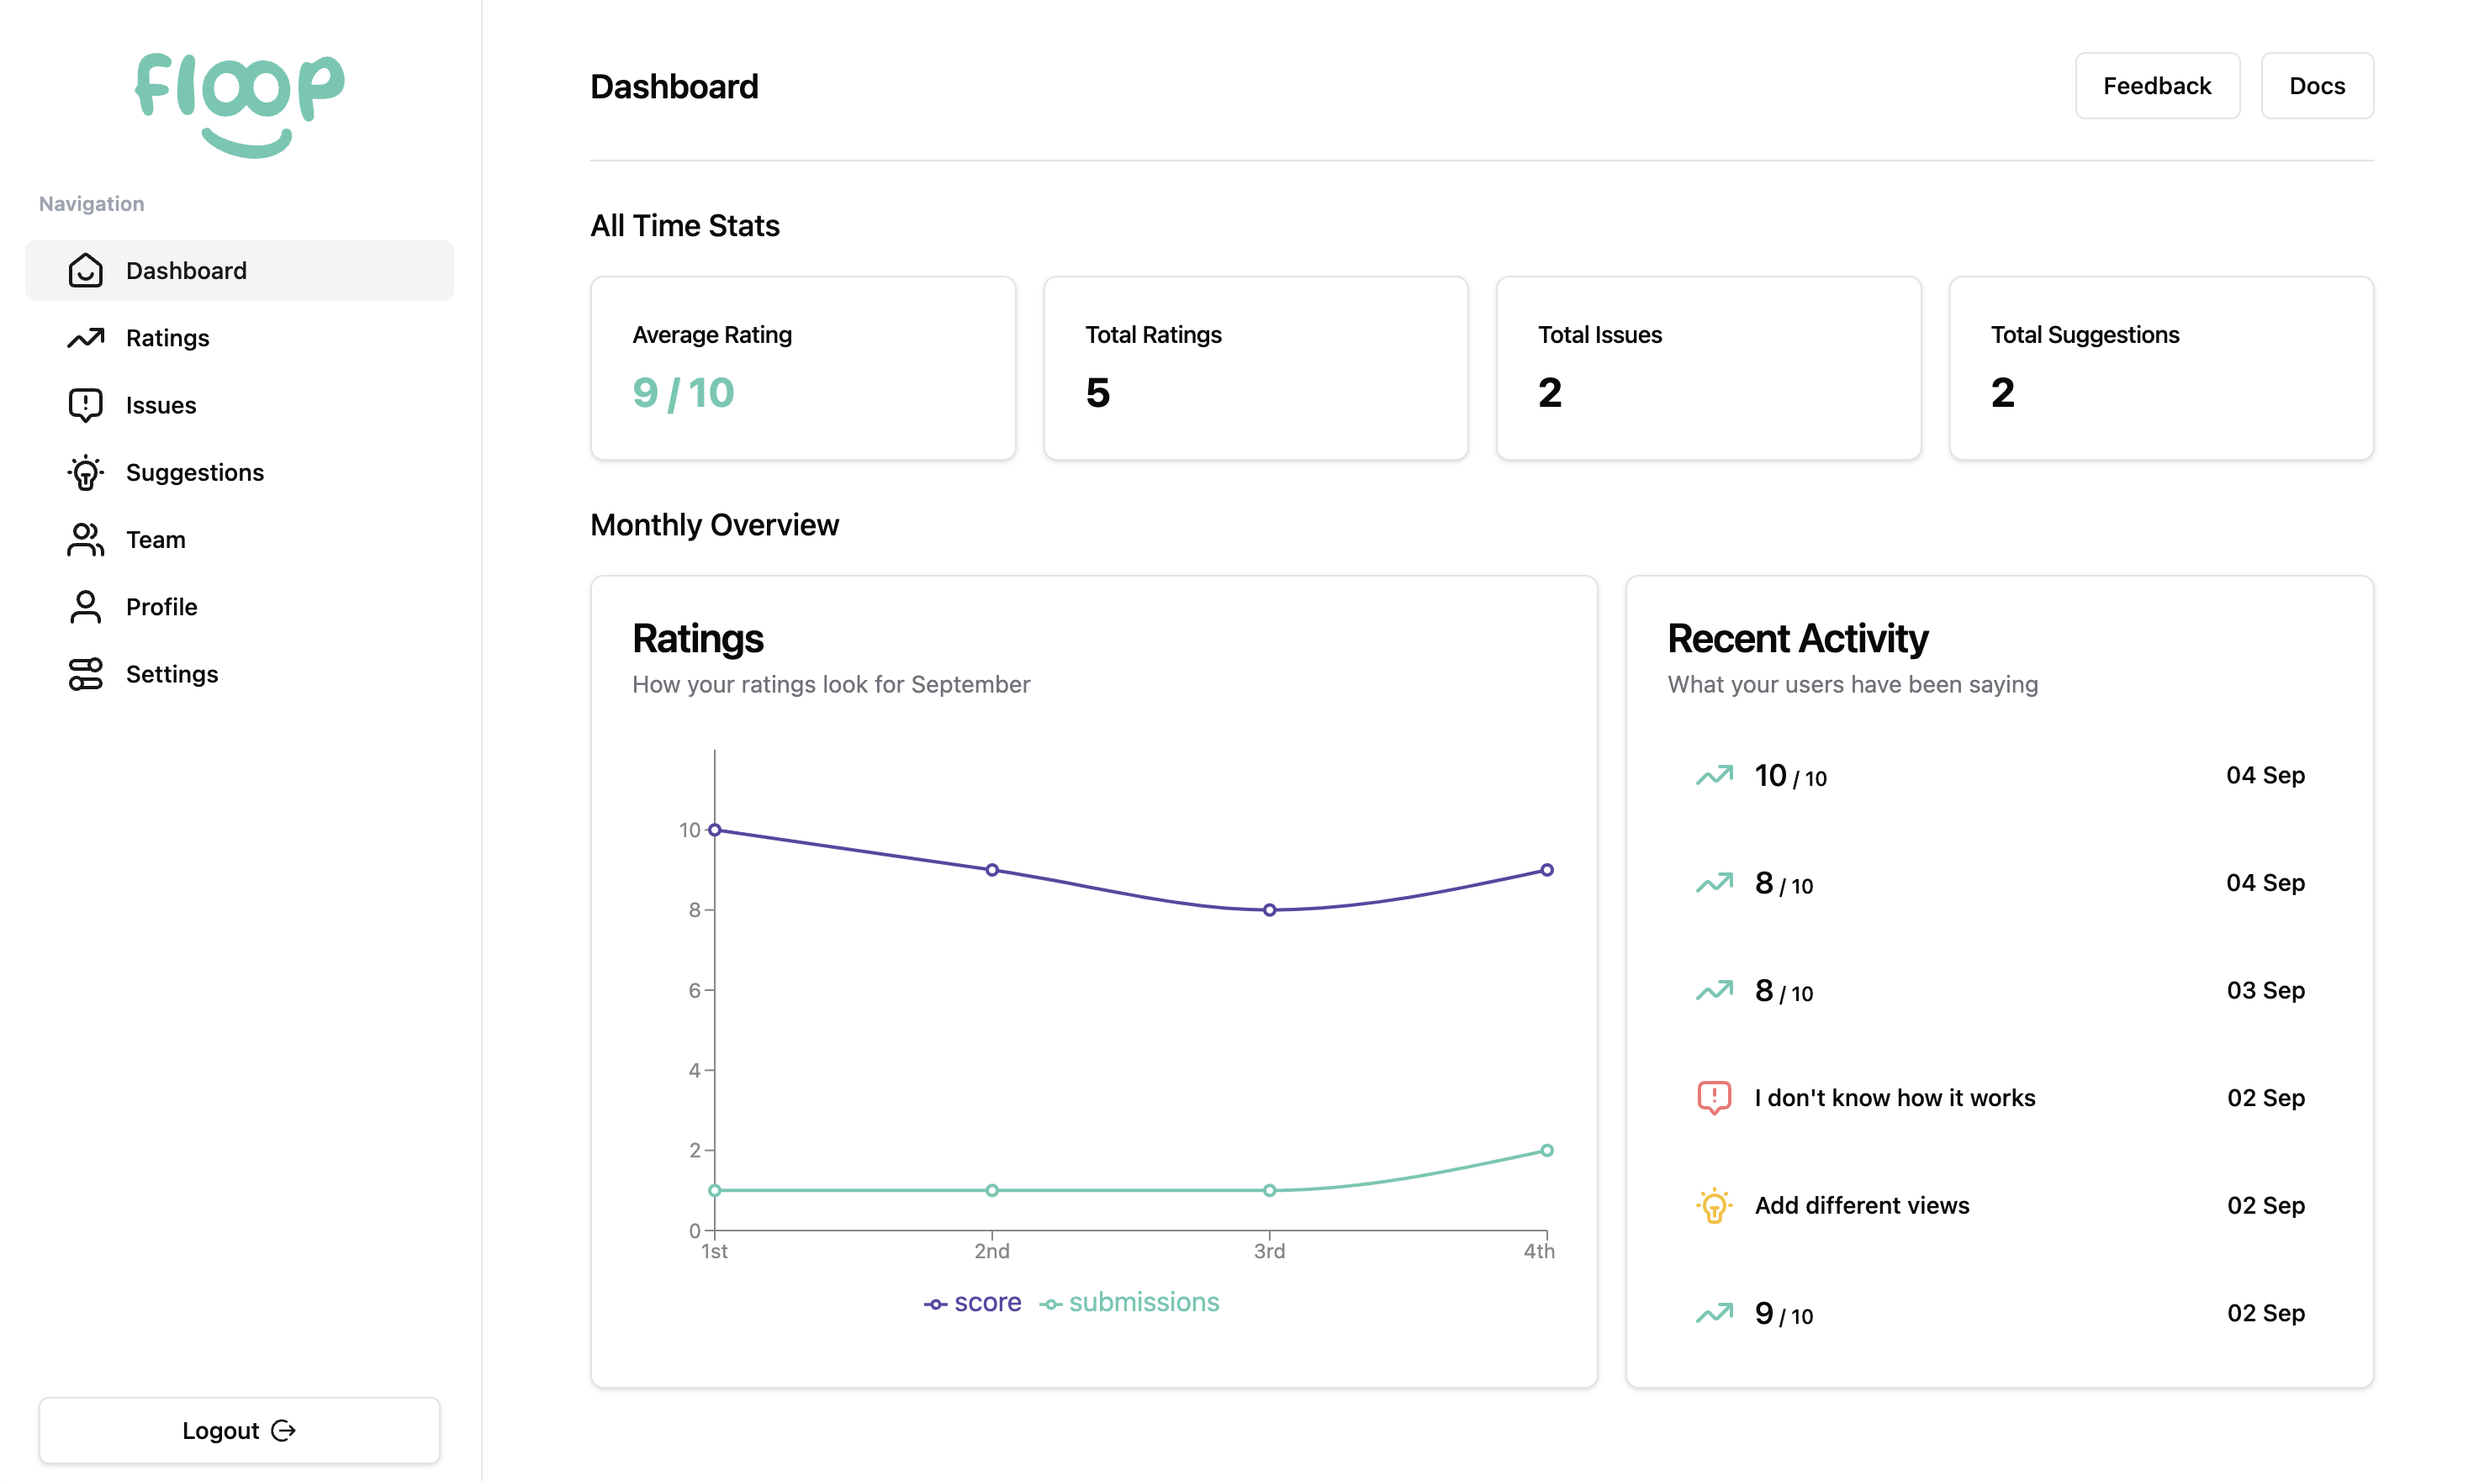
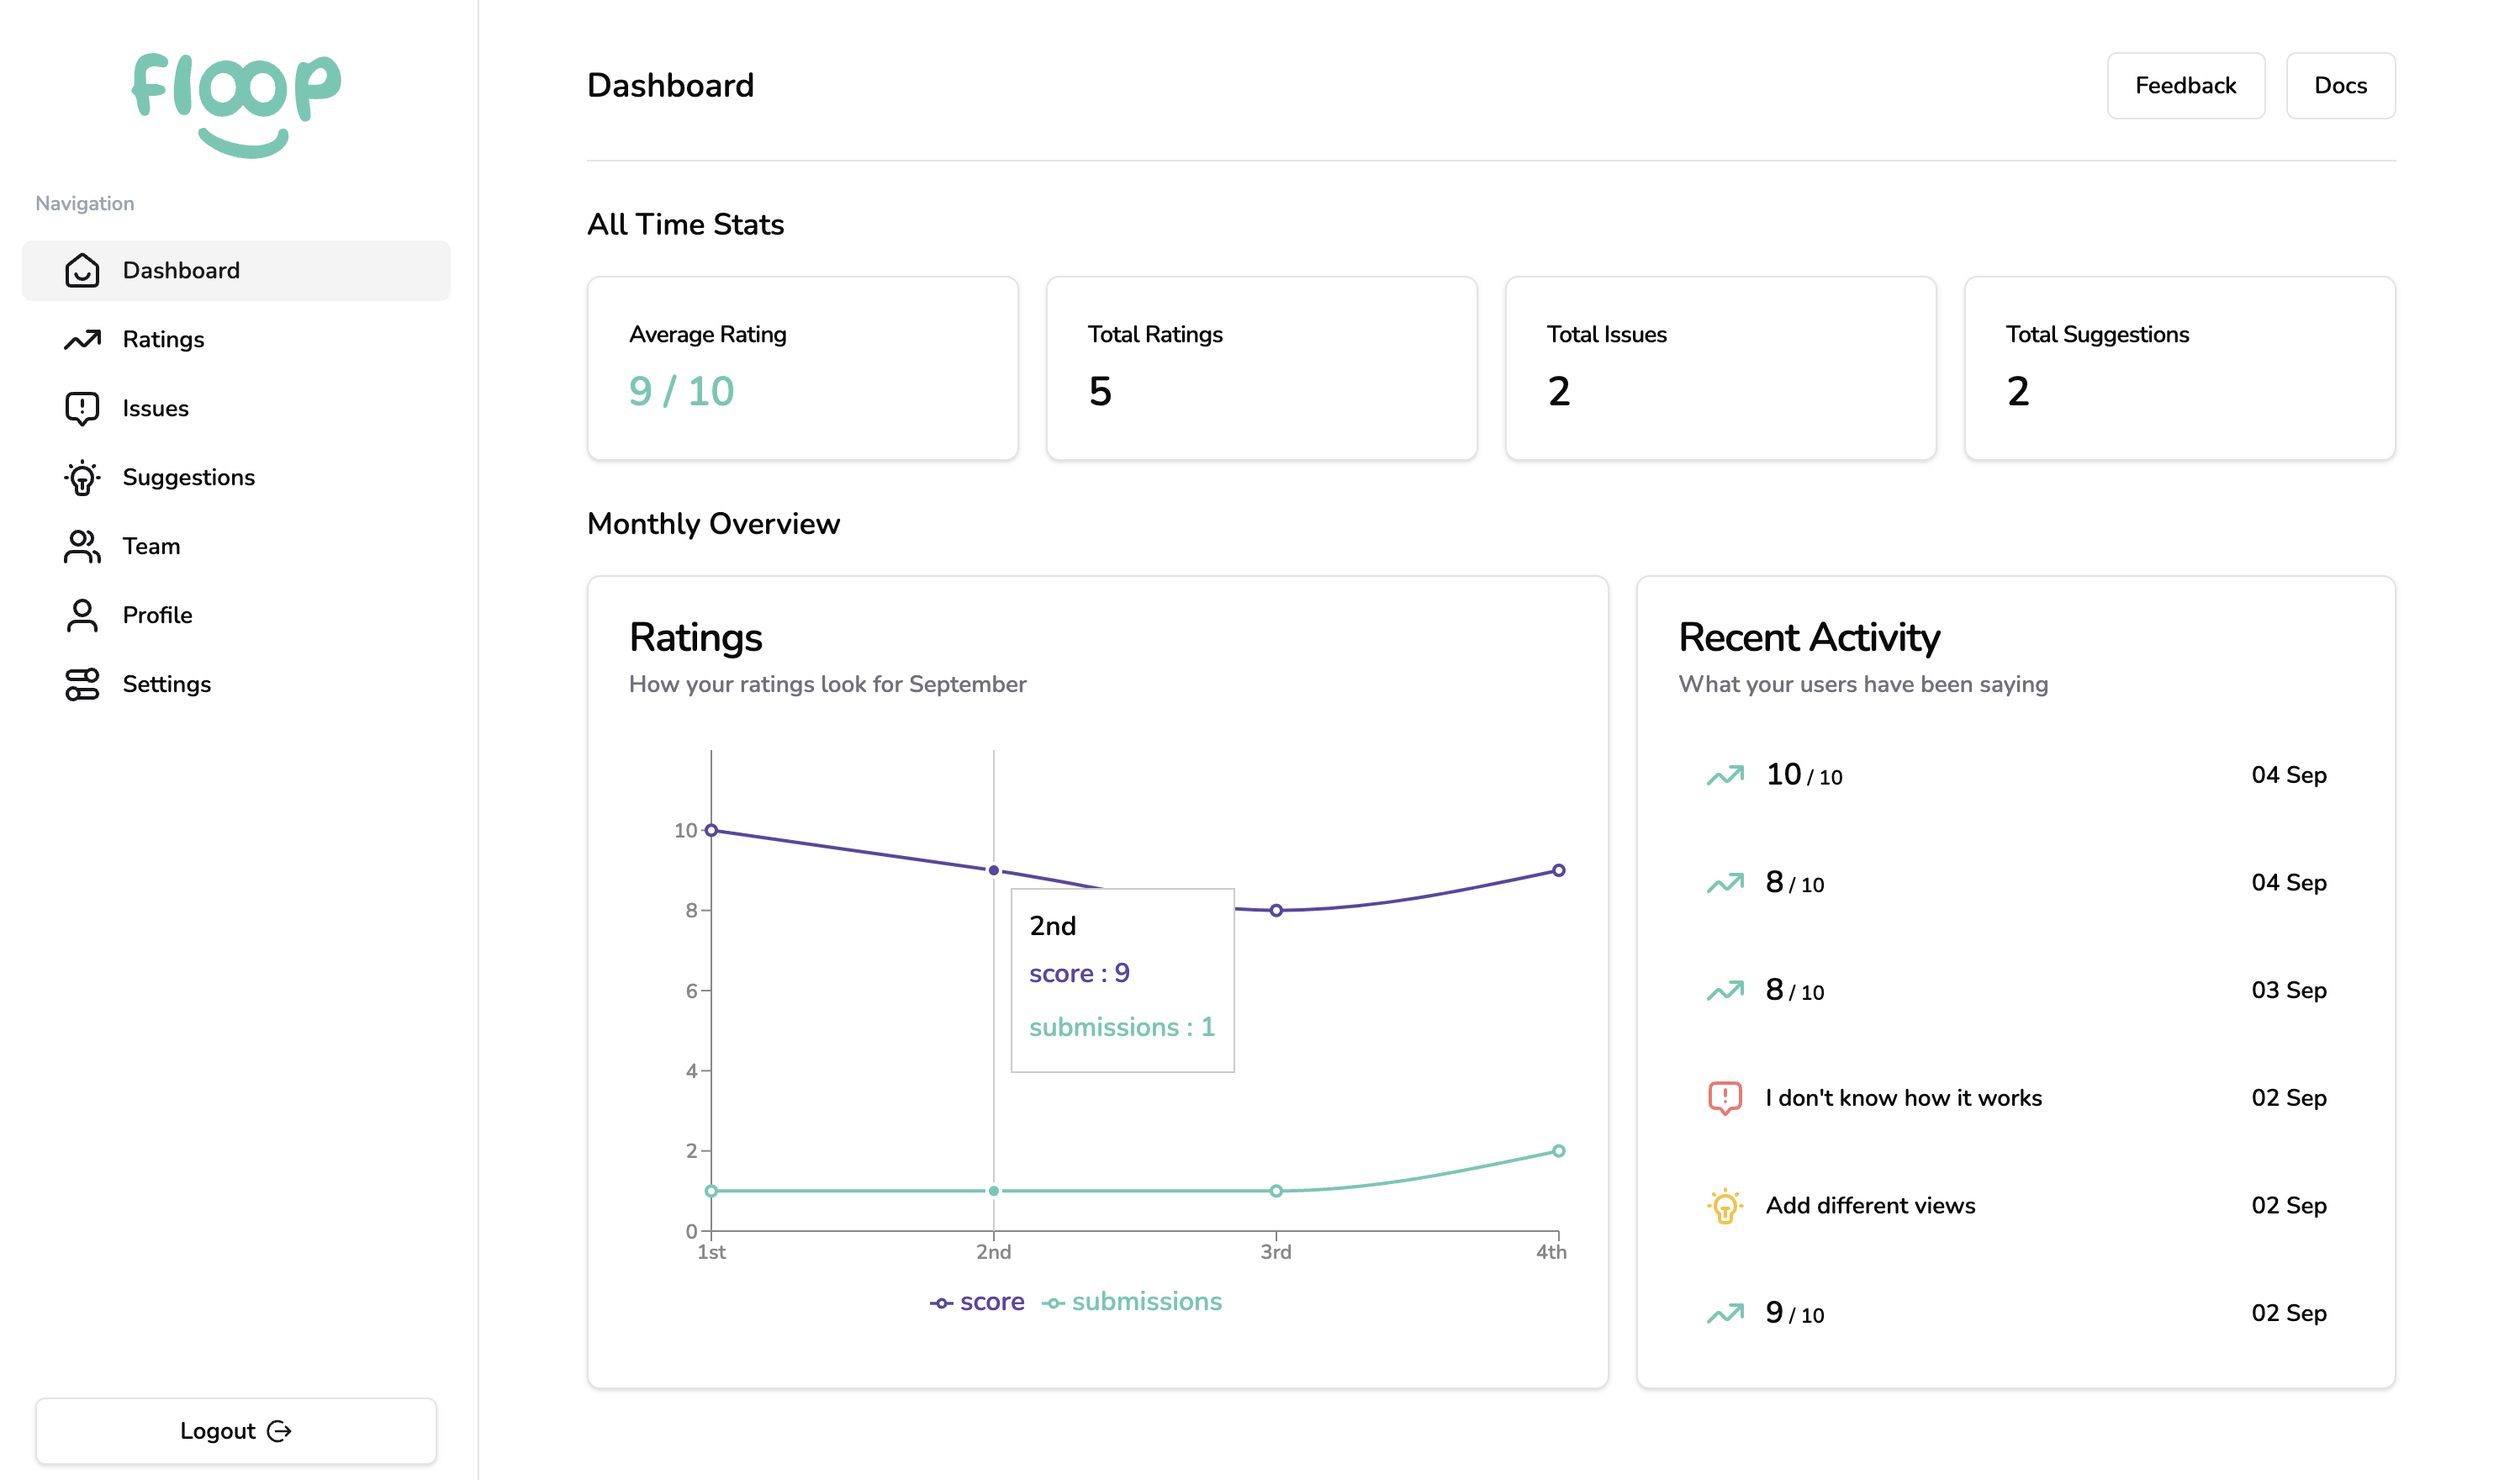
made changes to font

diff --git a/app/layout.tsx b/app/layout.tsx
@@ -1,9 +1,11 @@
 import { ReactNode } from "react";
+import { Metadata } from "next";
+import { Nunito } from "next/font/google";
 import "./globals.css";
 import { ThemeProvider } from "@/components/theme-provider";
 import { Toaster } from "@/components/ui/toaster";
 import { Analytics } from "@vercel/analytics/react";
-import { Metadata } from "next";
+import classNames from "@/lib/classnames";
 
 export const metadata: Metadata = {
   metadataBase: new URL("https://www.feedback-loop.io"),
@@ -22,9 +24,20 @@ export const metadata: Metadata = {
   },
 };
 
+const nunito = Nunito({
+  display: "swap",
+  style: "normal",
+  subsets: ["latin"],
+  weight: "600",
+});
+
 export default function RootLayout({ children }: { children: ReactNode }) {
   return (
-    <html lang="en" className="h-full" suppressHydrationWarning>
+    <html
+      lang="en"
+      className={classNames("h-full", nunito.className)}
+      suppressHydrationWarning
+    >
       <body className="h-full">
         <ThemeProvider attribute="class" defaultTheme="system" enableSystem>
           <main className="h-full">{children}</main>

diff --git a/app/globals.css b/app/globals.css
@@ -70,6 +70,7 @@
     * {
         @apply border-border;
     }
+
     body {
         @apply bg-background text-foreground;
     }
